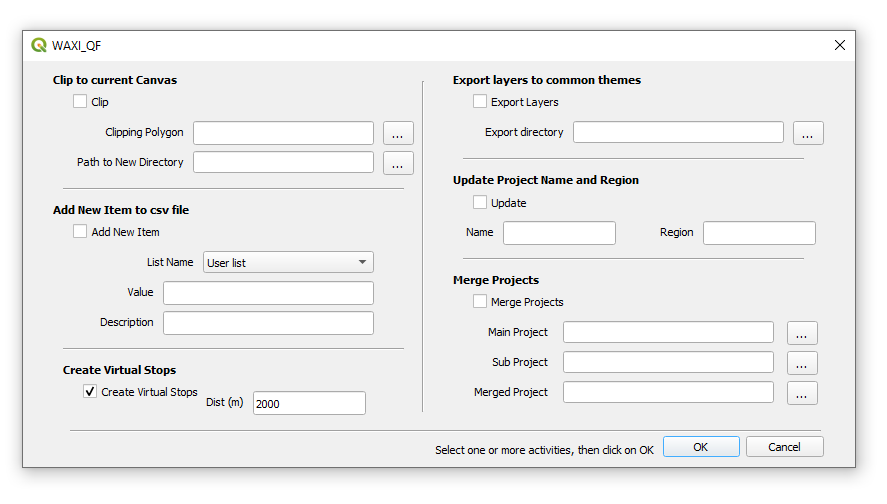
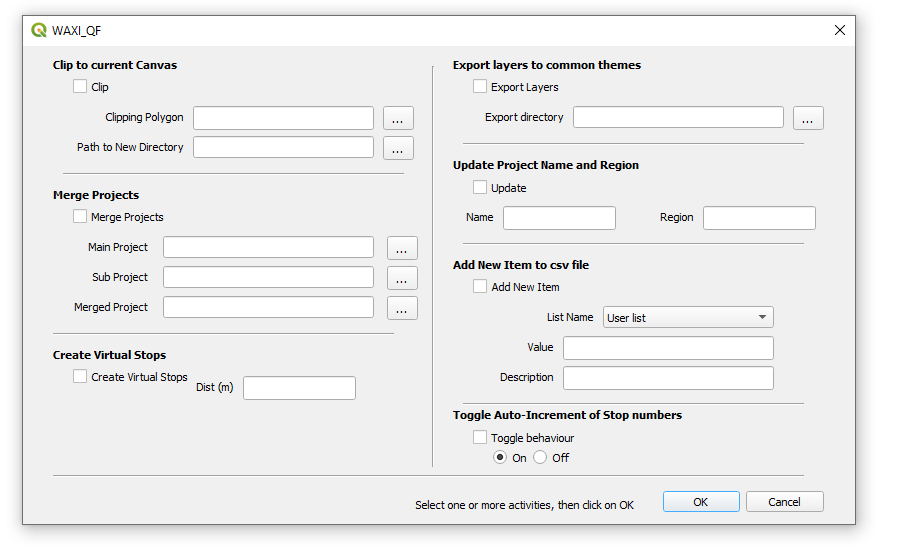
Add auto-increment control

diff --git a/WAXI_QF.py b/WAXI_QF.py
@@ -717,7 +717,22 @@ class WAXI_QF:
         
         self.dlg.lineEdit_8.setText(filename)
 
+    def toggleAutoInc(self):
+        project = QgsProject.instance()
+        proj_file_path=project.fileName()
+        head_tail = os.path.split(proj_file_path)
+        current_file_name = head_tail[0]+"/0. FIELD DATA/0. CURRENT MISSION/0. STOPS-SAMPLING-PHOTOGRAPHS-COMMENTS/Stops_PT.qml"
+        os.remove(current_file_name)
 
+        no_auto_filename = head_tail[0]+"/0. FIELD DATA/0. CURRENT MISSION/0. STOPS-SAMPLING-PHOTOGRAPHS-COMMENTS/Stops_PT_no_autoinc.qml"
+        auto_filename = head_tail[0]+"/0. FIELD DATA/0. CURRENT MISSION/0. STOPS-SAMPLING-PHOTOGRAPHS-COMMENTS/Stops_PT_autoinc.qml"
+        if(self.dlg.radioButton.isChecked()):
+            shutil.copy(auto_filename,current_file_name)
+            self.iface.messageBar().pushMessage("Auto Incrementing Stop Numbers turned ON", level=Qgis.Success, duration=15)
+
+        else:
+            shutil.copy(no_auto_filename,current_file_name)
+            self.iface.messageBar().pushMessage("Auto Incrementing Stop Numbers turned OFF", level=Qgis.Success, duration=15)
 
     def unload(self):
         """Removes the plugin menu item and icon from QGIS GUI."""
@@ -740,6 +755,8 @@ class WAXI_QF:
         Merge_output_tooltip = '<p>Path to directory of newly merged QGIS Project.</p>'
         Csv_list_tooltip = 'Select CSV file to add item to'
         Epsilon_tooltip = 'The radius of the circle to be created around each data point to check the density (in metres)'
+        Auto_on = 'Turn on autoincrementing of Stop Number behaviour when a new Stop is added'
+        Auto_off = 'Turn off autoincrementing of Stop Number behaviour when a new Stop is added'
 
         Clip_tooltip='Select the checkbox below and provide an output path (and optional clipping polygon) \nto clip the all WAXI QFIELD layers of current project, retaining directory structure. \nIf no polygon is defined, it will clip to the current Canvas (field of view) of the open project'
         Add_item_tooltip='Select the checkbox below, chose the CSV file you want to add to, and define the \nValue & Description for a new field that will appear in the dropdown menus in QFIELD'
@@ -747,6 +764,7 @@ class WAXI_QF:
         Update_tooltip='Select the checkbox below and provide new Name and Region info for project'
         Merge_tooltip='Select the checkbox below and provide paths to the global QGIS project, \nthe local one you have been working on and the output directory that\n will store the merged projects, with duplicates removed.'
         Virtualstop_tooltip = 'Combine all point layers to get virtual Stop IDS'
+        Autoincrement_tooltip= 'Toggles autoincrementing of Stop Number behaviour when a new Stop is added'
 
         self.dlg.label_4.setToolTip(Clip_tooltip)
         self.dlg.label_5.setToolTip(Add_item_tooltip)
@@ -754,6 +772,10 @@ class WAXI_QF:
         self.dlg.label_15.setToolTip(Update_tooltip)
         self.dlg.label_6.setToolTip(Merge_tooltip)
         self.dlg.label_18.setToolTip(Virtualstop_tooltip)
+        self.dlg.label_19.setToolTip(Autoincrement_tooltip)
+
+        self.dlg.radioButton.setToolTip(Auto_on)
+        self.dlg.radioButton_2.setToolTip(Auto_off)
 
 
         self.dlg.lineEdit.setToolTip(Value_tooltip)
@@ -808,6 +830,21 @@ class WAXI_QF:
                 csv_file_list.append(name)
             self.dlg.comboBox.addItems(csv_file_list[:-2])
 
+            #check to see which qml is loaded for Stops_PT
+            project = QgsProject.instance()
+            proj_file_path=project.fileName()
+            head_tail = os.path.split(proj_file_path)
+            current_file_name = head_tail[0]+"/0. FIELD DATA/0. CURRENT MISSION/0. STOPS-SAMPLING-PHOTOGRAPHS-COMMENTS/Stops_PT.qml"
+            no_auto_filename = head_tail[0]+"/0. FIELD DATA/0. CURRENT MISSION/0. STOPS-SAMPLING-PHOTOGRAPHS-COMMENTS/Stops_PT_no_autoinc.qml"
+
+            file_stats_current = os.stat(current_file_name)
+            file_stats_no_auto = os.stat(no_auto_filename)
+            if(file_stats_current.st_size == file_stats_no_auto.st_size):
+                self.dlg.radioButton_2.setChecked(True)
+            else:
+                self.dlg.radioButton.setChecked(True)
+
+
         self.define_tips()
         # show the dialog
         self.dlg.show()
@@ -848,6 +885,9 @@ class WAXI_QF:
             if(self.dlg.checkBox_6.isChecked()):
                 if(self.dlg.lineEdit_11.text()):
                     self.virtualStops(self.dlg.lineEdit_11.text())
+
+            if(self.dlg.checkBox_7.isChecked()):
+                self.toggleAutoInc()
 
         else:
             self.dlg.lineEdit.setText("") 

diff --git a/README.md b/README.md
@@ -15,7 +15,8 @@ Save repository to disk as a zip file. Use QGIS Plugin Manager to load directly 
 5. **Export layers to common themes**: Select checkbox and define directory to export all point, polygon and polyline which are combined to three  shapefiles for zones, structures and lithologies. An existing WAXI QFIELD project must be open when you select this option.
 6. **Update the Project name**: Select checkbox to update the project name and field region for a new field campaign.
 7. **Create Virtual Stops**: Select checkbox and define clustering distance to add a cluster code to all diferent types of points observations according to locality, using a DBSCAN algorithm. This will create a new layer called *Virtual_Stops_datestamp*. An existing WAXI QFIELD project must be open when you select this option. This can be very slow for large datasets, so probably best applied to clipped data for a region of interest.
-8. **Click on OK** to perform any or all of the above actions.
+8. **Toggle Auto-Increment of Stop numbers**: Select checkbox and toggle Stop Number autoincrementing behaviour when a new stop is defined. An existing WAXI QFIELD project must be open when you select this option. 
+9. **Click on OK** to perform any or all of the above actions.
 
 ## Roadmap
 
